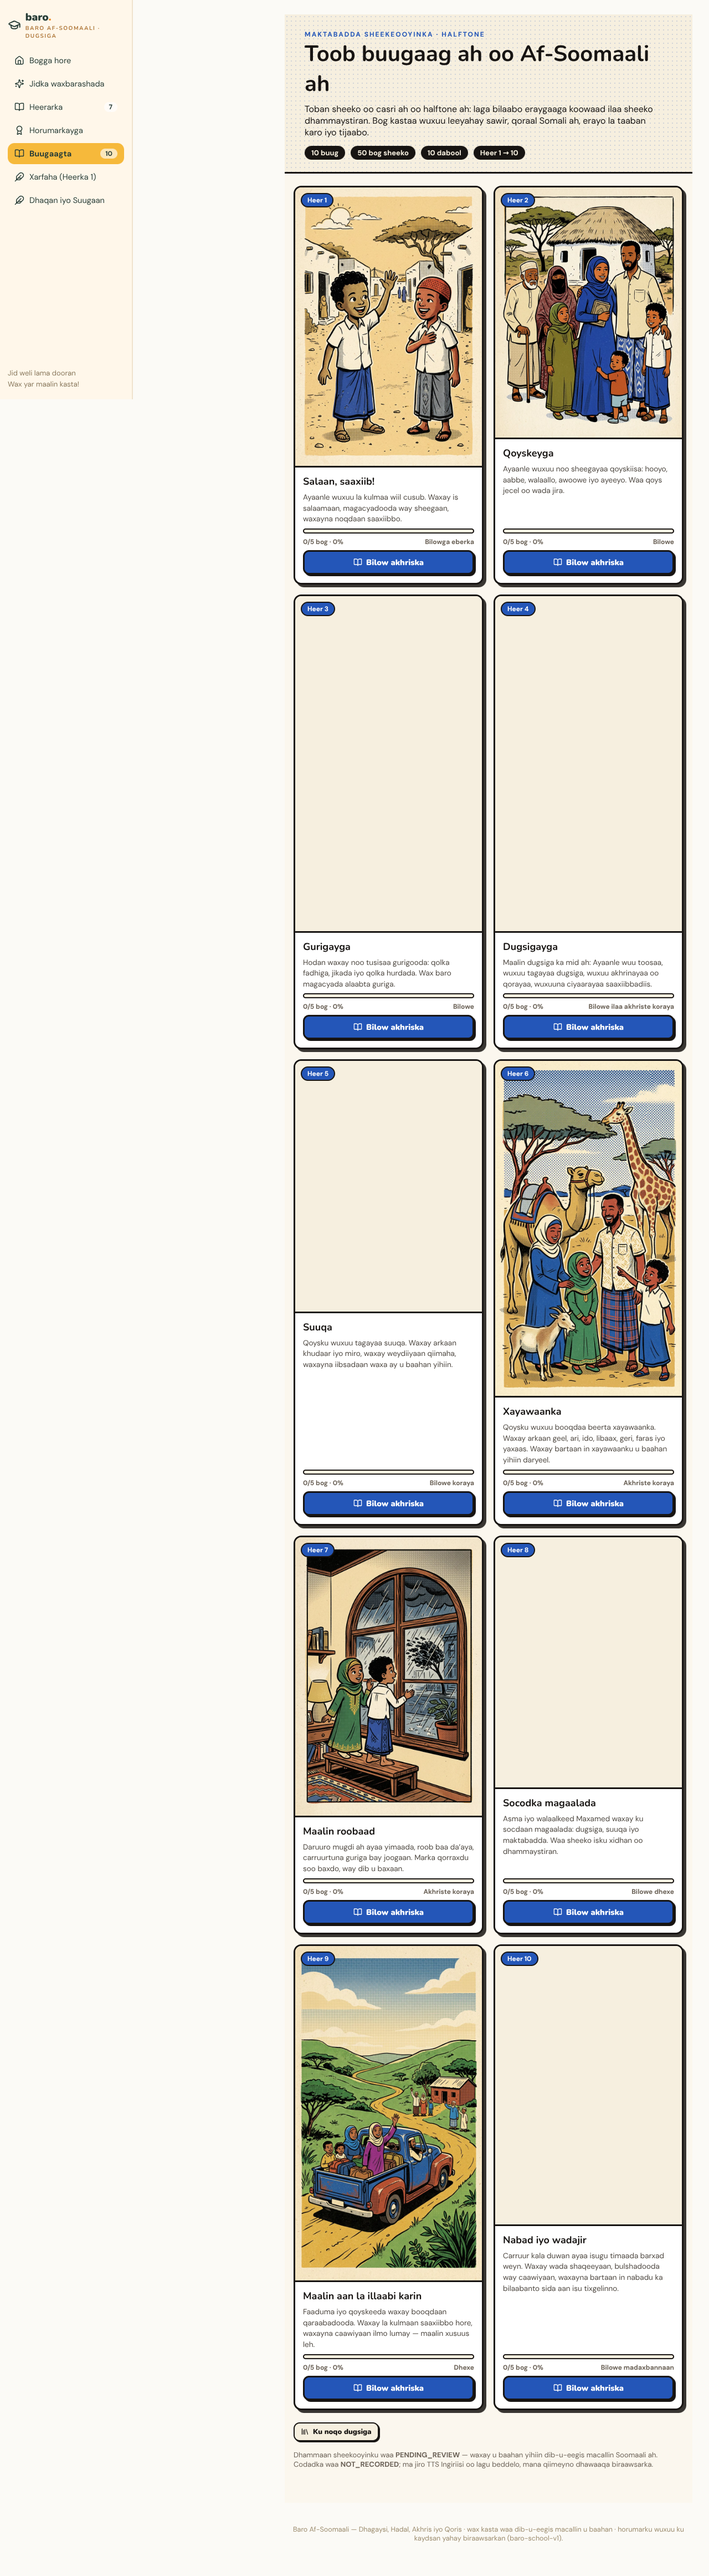
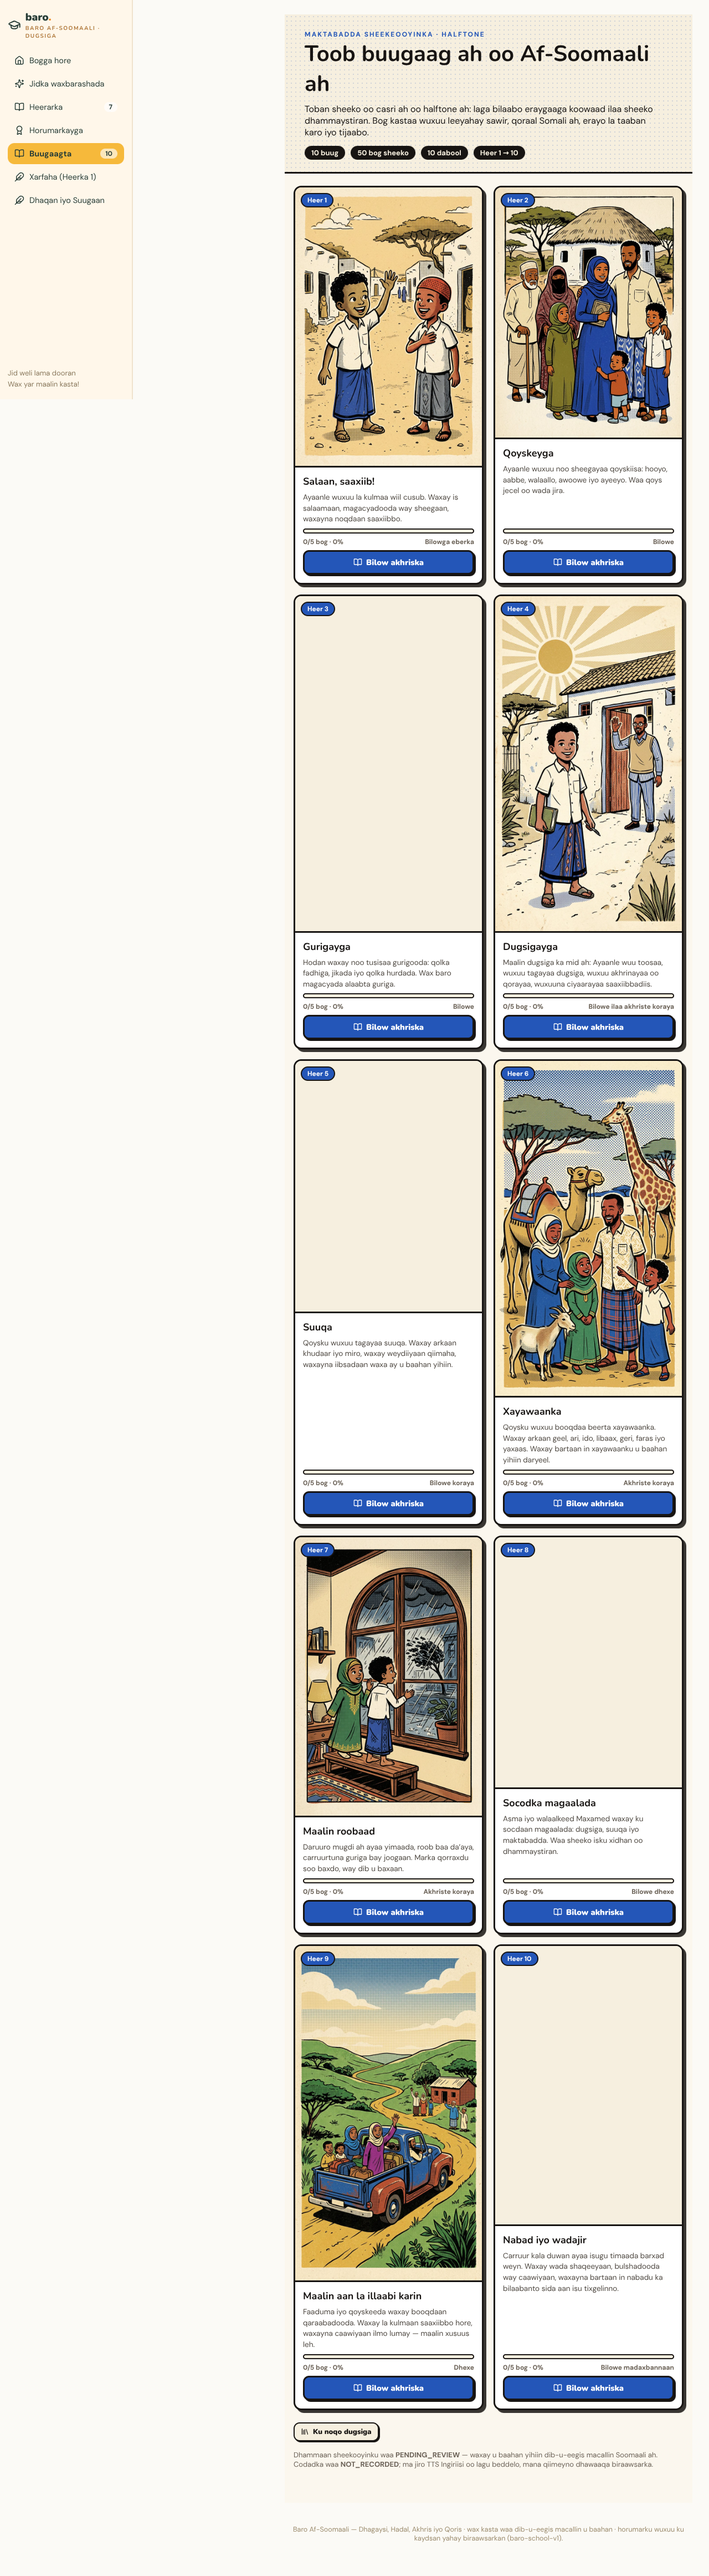
Parent-facing homepage with product story and pricing
- New landing at the site root (/): what baro. teaches (7 stages, 10 storybooks,
  phonics, poetry/culture, four-skill progress) aimed at parents — Somali
  primary with English support lines
- Pricing section: website access $5.99 and website + live lessons $25
- The ten halftone covers form the hero collage (eager-loaded, decode-guarded)
- School app moved to #/dugsi (its own links updated); legacy #/xaraf breadcrumb
  returns to the school; everything else unchanged
- New e2e/parents.spec.ts: prices and copy, CTA into the school, no-overflow at
  390/1280 with screenshots; school e2e entry URLs updated

Changed region(s): [[0.6875, 0.2185, 0.9688, 0.3746]]

diff --git a/src/main.tsx b/src/main.tsx
@@ -9,6 +9,7 @@ import Assessment from './Assessment';
 import {worldScenes} from './world';
 import CulturalSection from './modules/CulturalSection';
 import SchoolApp from './school/SchoolApp';
+import ParentsHome from './parents/ParentsHome';
 const StoryScene = lazy(() => import('./StoryScene'));
 import '@fontsource/dm-sans/latin-400.css';
 import '@fontsource/dm-sans/latin-700.css';
@@ -31,7 +32,7 @@ function App(){
  const attempt=(unit:number,id:string,skill:Skill,correct:boolean)=>setProgress(p=>recordAttempt(p,unit,id,skill,correct));
  const next=units.find(u=>!completed.includes(u.id))||units[0];
  return <div className="app-shell"><aside className={'sidebar '+(nav?'open':'')}><Logo/><div className="side-label">MEESHAADA WAXBARASHADA</div><nav aria-label="Bogagga"><button className={page==='home'?'active':''} onClick={()=>go('home')}><Home size={19}/> Bogga hore</button><button className={page==='units'||page==='unit'?'active':''} onClick={()=>go('units')}><BookOpen size={19}/> Casharrada <span className="nav-count">8</span></button><button className={page==='story'?'active':''} onClick={()=>go('story')}><Sparkles size={19}/> Aan sahaminno</button><button className={page==='culture'?'active':''} onClick={()=>go('culture')}><Feather size={19}/> Dhaqan iyo Suugaan</button></nav><div className="sidebar-bottom"><div className="side-illustration"><Emoji symbol="🌱"/></div><strong>Wax yar maalin kasta!</strong><p>Tallaabo kasta waxay kuu dhowaynaysaa akhriska.</p><span>WAAD KARTAA! <span>✦</span></span></div><div className="side-footer">Lagu sameeyay jacayl <span>♥</span></div></aside>
- <main><header className="topbar"><button className="mobile-menu" onClick={()=>setNav(!nav)} aria-label="Fur liiska"><Menu/></button><div className="breadcrumbs"><a href="#/" style={{color:'inherit',textDecoration:'none'}}>BARO AF-SOOMAALI</a><ChevronRight size={14}/><strong>{page==='home'?'Bogga hore':page==='story'?'Aan sahaminno':page==='culture'?'Dhaqan iyo Suugaan':page==='unit'?`Casharka ${unitId}`:'Casharrada'}</strong></div><div className="top-right"><div className="stage-pill"><span>✦</span> HEERKA 1</div><div className="avatar"><Emoji symbol="🌼"/></div><span className="learner">Ardayga <ChevronDown size={14}/></span></div></header>
+ <main><header className="topbar"><button className="mobile-menu" onClick={()=>setNav(!nav)} aria-label="Fur liiska"><Menu/></button><div className="breadcrumbs"><a href="#/dugsi" style={{color:'inherit',textDecoration:'none'}}>BARO AF-SOOMAALI</a><ChevronRight size={14}/><strong>{page==='home'?'Bogga hore':page==='story'?'Aan sahaminno':page==='culture'?'Dhaqan iyo Suugaan':page==='unit'?`Casharka ${unitId}`:'Casharrada'}</strong></div><div className="top-right"><div className="stage-pill"><span>✦</span> HEERKA 1</div><div className="avatar"><Emoji symbol="🌼"/></div><span className="learner">Ardayga <ChevronDown size={14}/></span></div></header>
  {page==='home'&&<div className="content"><div className="welcome-row"><div><div className="eyebrow"><span>✦</span> KU SOO DHAWOOW</div><h1>Salam, saaxiib! <span><Emoji symbol="👋🏽"/></span></h1><p>Maanta maxaan baranaynaa?</p></div><div className="date-chip"><span>✺</span> Maalin fiican oo waxbarasho ah!</div></div>
  <section className="hero"><div className="hero-copy"><div className="hero-kicker"><span>✦</span> AAN WADA BILOWNO</div><h2>Safarkaaga akhriska<br/><em>halkan ayuu ka bilaabmaa!</em></h2><p>Baro xarfaha iyo dhawaaqyada af-Soomaaliga adigoo ciyaaraya, sahaminaya oo madadaalanaya.</p><button className="primary" onClick={()=>openUnit(next.id)}>Aan bilowno <ArrowRight size={18}/></button></div><img src="/images/learning-landscape.png" alt="Ilmo buug akhrinaya oo geed hoostiisa jooga"/><div className="hero-dots">✦ &nbsp; ✧</div></section>
  <section className="progress-card"><div className="progress-icon"><Emoji symbol="🌟"/></div><div className="progress-text"><strong>Horumarkaaga</strong><p>Tallaabo tallaabo, waad gaadhaysaa!</p></div><div className="progress-bar-wrap"><div className="progress-meta"><span>HEERKA 1</span><strong>{completed.length} <small>/ 8 cashar</small></strong></div><div className="progress-track"><div style={{width:`${completed.length/8*100}%`}}/></div></div><div className="progress-star">✦</div></section>
@@ -67,6 +68,6 @@ function StoryPage({onBack}:{onBack:()=>void}){
  return <div className="content inner-page"><button className="back" onClick={onBack}><ArrowLeft size={17}/> Bogga hore</button><div className="eyebrow">✦ AAN SAHAMINNO</div><h1>Maxaa halkan jooga?</h1><p className="page-intro">Taabo sawir ama isticmaal badhamada si aad eray u ogaato.</p><div className="case-buttons world-tabs">{worldScenes.map(s=><button key={s.id} className={sceneId===s.id?'selected':''} onClick={()=>{setSceneId(s.id);setFound(null)}}>{s.title}</button>)}</div><div className="activity-card story-card"><h2>{scene.title}</h2><p>{scene.description}</p><Suspense fallback={<div className="scene">Soo raraya...</div>}><StoryScene sceneId={sceneId} onDiscover={discover}/></Suspense><div className="world-buttons">{scene.objects.map(g=>{const l=byG(g);return <button className="outline" key={g} onClick={()=>discover(g)}><Emoji symbol={l.emoji}/> {g==='n'?'Taabo nalka':l.word}</button>})}</div>{letter&&<div className="story-answer"><div className="sound-tiles">{tiles.map((t,i)=><SoundTile key={i} sound={t} active={i===highlight} label={t.toUpperCase()}/>)}</div><h2>{letter.word[0].toUpperCase()+letter.word.slice(1)}</h2><p>{letter.meaning}</p><AudioButton path={letter.wordAudio} label="Dhagayso erayga"/></div>}</div><p className="notice"><CircleHelp size={16}/> Codadka aan la ansixin lama ciyaarayo. Duubis iyo dib-u-eegis ayaa loo baahan yahay.</p></div>
 }
 
-function Root(){const [hash,setHash]=useState(()=>window.location.hash);useEffect(()=>{const f=()=>setHash(window.location.hash);window.addEventListener('hashchange',f);return()=>window.removeEventListener('hashchange',f)},[]);if(hash.startsWith('#/xaraf'))return <App/>;return <SchoolApp/>;}
+function Root(){const [hash,setHash]=useState(()=>window.location.hash);useEffect(()=>{const f=()=>setHash(window.location.hash);window.addEventListener('hashchange',f);return()=>window.removeEventListener('hashchange',f)},[]);if(hash.startsWith('#/xaraf'))return <App/>;if(hash===''||hash==='#'||hash==='#/')return <ParentsHome/>;return <SchoolApp/>;}
 const root = document.getElementById('root');
 if(root) createRoot(root).render(<React.StrictMode><Root/></React.StrictMode>);

diff --git a/src/parents/ParentsHome.tsx b/src/parents/ParentsHome.tsx
@@ -1,0 +1,126 @@
+import { ArrowRight, BookOpen, Check, GraduationCap, PenLine, Sparkles, TrendingUp } from 'lucide-react';
+import { books as libraryBooks } from '../books/index';
+import { schoolTotals } from '../curriculum/index';
+import './parents.css';
+
+const scrollTo = (id: string) => document.getElementById(id)?.scrollIntoView({ behavior: 'smooth', block: 'start' });
+
+/**
+ * Parent-facing homepage: what baro. is and what it costs.
+ * All product claims describe features that exist in the app;
+ * pricing figures come from the business offer (website access $5.99,
+ * website + live lessons $25).
+ */
+export function ParentsHome() {
+  const totals = schoolTotals();
+  return (
+    <div className="ph-page">
+      <header className="ph-header">
+        <a className="ph-brand" href="#/">
+          <GraduationCap size={26} />
+          <span>baro<span className="ph-dot">.</span><small>BARO AF-SOOMAALI · DUGSIGA</small></span>
+        </a>
+        <nav className="ph-nav" aria-label="Bogagga waalidiinta">
+          <button onClick={() => scrollTo('faahfaahin')}>Maxay tahay?</button>
+          <button onClick={() => scrollTo('qiimaha')}>Qiimaha</button>
+        </nav>
+        <a className="ph-btn small" href="#/dugsi">Gal dugsi <ArrowRight size={15} /></a>
+      </header>
+
+      <section className="ph-hero">
+        <div className="ph-hero-copy">
+          <p className="ph-eyebrow">GOORTA WAALIDIINTA · FOR PARENTS</p>
+          <h1>Af-Soomaali u carruurtaada — <em>si farxad leh.</em></h1>
+          <p className="ph-sub" lang="en">Somali literacy for your children — reading, speaking, listening and writing.</p>
+          <p className="ph-lead">
+            baro. waa websaydh waxbarasho oo carruurtu si tartiib ah ku barto xarfaha, akhriska,
+            sheekooyinka iyo suugaanta — {totals.stages} heer oo isku xidhan, laga bilaabo dhagaysiga
+            ilaa suugaanta.
+          </p>
+          <div className="ph-actions">
+            <a className="ph-btn primary" href="#/dugsi">Gal dugsi <ArrowRight size={17} /></a>
+            <button className="ph-btn ghost" onClick={() => scrollTo('qiimaha')}>Arag qiimaha</button>
+          </div>
+        </div>
+        <div className="ph-covers" aria-label="Sheekooyinka maktabadda">
+          {libraryBooks.map(b => (
+            <figure key={b.id} className="ph-cover">
+              <img src={b.cover} alt={b.coverAltSo} decoding="async" />
+              <figcaption>{b.titleSo}</figcaption>
+            </figure>
+          ))}
+        </div>
+      </section>
+
+      <section className="ph-section" id="faahfaahin">
+        <p className="ph-eyebrow center">MAXAY TAHAY? · WHAT IS IT</p>
+        <h2>Waxa carruurtu ka helayaan</h2>
+        <p className="ph-sub center" lang="en">What your children get inside.</p>
+        <div className="ph-features">
+          <div className="ph-feature">
+            <Sparkles size={22} />
+            <h3>{totals.stages} heer oo isku xidhan</h3>
+            <p>Laga bilaabo dhagaysiga iyo hadalka ilaa akhriska iyo suugaanta.</p>
+            <p className="ph-sub" lang="en">Seven connected stages, from listening to literature.</p>
+          </div>
+          <div className="ph-feature">
+            <BookOpen size={22} />
+            <h3>{libraryBooks.length} sheeko-buug</h3>
+            <p>Sheekooyin halftone ah; eray kasta waa la riixi karaa, micnihiisana waa la arkaa.</p>
+            <p className="ph-sub" lang="en">Ten illustrated storybooks with tappable word help.</p>
+          </div>
+          <div className="ph-feature">
+            <PenLine size={22} />
+            <h3>Xarfaha, suugaanta iyo dhaqanka</h3>
+            <p>26 xaraf, casharro suugaan, iyo qoris — Af-Soomaali dhab ah.</p>
+            <p className="ph-sub" lang="en">Phonics, poetry and culture.</p>
+          </div>
+          <div className="ph-feature">
+            <TrendingUp size={22} />
+            <h3>Horumarka la raaco</h3>
+            <p>Afar xirfad: dhagaysi, hadal, akhris iyo qoris — meel kasta waad ka aragtaa.</p>
+            <p className="ph-sub" lang="en">Progress across the four skills.</p>
+          </div>
+        </div>
+      </section>
+
+      <section className="ph-section ph-pricing-section" id="qiimaha">
+        <p className="ph-eyebrow center">QIIMAHA · PRICING</p>
+        <h2>Dooro qorshaha qoyskaaga</h2>
+        <p className="ph-sub center" lang="en">Choose the plan that fits your family.</p>
+        <div className="ph-plans">
+          <div className="ph-plan">
+            <h3>Galitaanka websaydhka</h3>
+            <p className="ph-plan-en" lang="en">Website access</p>
+            <p className="ph-price">$5.99</p>
+            <ul>
+              <li><Check size={16} /> Dhammaan casharrada iyo jimicsiyada</li>
+              <li><Check size={16} /> {libraryBooks.length} sheeko-buug oo dhan</li>
+              <li><Check size={16} /> Xarfaha iyo dhaqanka</li>
+              <li><Check size={16} /> Dashboard horumar leh</li>
+            </ul>
+            <a className="ph-btn primary" href="#/dugsi">Gal dugsi <ArrowRight size={16} /></a>
+          </div>
+          <div className="ph-plan featured">
+            <p className="ph-badge">Casharro toos ah · Live lessons</p>
+            <h3>Websaydh + casharro toos ah</h3>
+            <p className="ph-plan-en" lang="en">Website + live lessons</p>
+            <p className="ph-price">$25</p>
+            <ul>
+              <li><Check size={16} /> Wax kasta oo galitaanka websaydhka ku jira</li>
+              <li><Check size={16} /> Casharro toos ah oo macallin Soomaali ah</li>
+            </ul>
+            <a className="ph-btn dark" href="#/dugsi">Gal dugsi <ArrowRight size={16} /></a>
+          </div>
+        </div>
+      </section>
+
+      <footer className="ph-footer">
+        <p><strong>baro.</strong> BARO AF-SOOMAALI · DUGSIGA</p>
+        <p className="ph-note">Wax kasta waa dib-u-eegis macallin Soomaali ah u baahan.</p>
+      </footer>
+    </div>
+  );
+}
+
+export default ParentsHome;

diff --git a/src/parents/parents.css b/src/parents/parents.css
@@ -1,0 +1,79 @@
+/* Parent-facing homepage — baro. school identity (cream/amber/dark green). */
+
+.ph-page { min-height: 100vh; background: #fff7ea; color: #283d37; font-family: 'DM Sans', sans-serif; }
+.ph-page h1, .ph-page h2, .ph-page h3 { font-family: 'Nunito', sans-serif; }
+
+/* Header */
+.ph-header { position: sticky; top: 0; z-index: 30; display: flex; align-items: center; gap: 14px; flex-wrap: wrap; padding: 12px max(16px, 4vw); background: rgba(255, 247, 234, 0.94); border-bottom: 2px solid #f0e3cd; }
+.ph-brand { display: flex; align-items: center; gap: 8px; font-family: 'Nunito', sans-serif; font-weight: 900; font-size: 19px; color: #283d37; text-decoration: none; }
+.ph-brand small { display: block; font-size: 10px; letter-spacing: 1.5px; color: #b0793c; font-weight: 700; }
+.ph-dot { color: #f28c28; }
+.ph-nav { display: flex; gap: 4px; margin-left: auto; }
+.ph-nav button { border: 0; background: transparent; padding: 9px 12px; border-radius: 11px; font: inherit; font-weight: 700; font-size: 14px; color: #283d37; cursor: pointer; }
+.ph-nav button:hover { background: #f7ecd9; }
+
+/* Buttons */
+.ph-btn { display: inline-flex; align-items: center; justify-content: center; gap: 7px; border: 2.5px solid #1c1917; border-radius: 13px; padding: 11px 18px; font-family: 'Nunito', sans-serif; font-weight: 800; font-size: 15px; color: #283d37; background: #f6b93b; text-decoration: none; cursor: pointer; box-shadow: 3px 3px 0 rgba(28, 25, 23, 0.85); }
+.ph-btn:hover { transform: translateY(-1px); }
+.ph-btn:active { transform: translate(2px, 2px); box-shadow: 1px 1px 0 rgba(28, 25, 23, 0.85); }
+.ph-btn.primary { background: #f6b93b; }
+.ph-btn.dark { background: #283d37; color: #fff7ea; }
+.ph-btn.ghost { background: #fff; }
+.ph-btn.small { padding: 8px 13px; font-size: 13.5px; }
+
+/* Hero */
+.ph-hero { display: grid; grid-template-columns: 1.1fr 1fr; gap: 28px; align-items: center; max-width: 1160px; margin: 0 auto; padding: clamp(26px, 6vh, 64px) max(16px, 4vw) 20px; }
+.ph-eyebrow { font-size: 11.5px; letter-spacing: 2px; font-weight: 800; color: #b0793c; margin: 0 0 10px; }
+.ph-eyebrow.center { text-align: center; }
+.ph-hero h1 { font-size: clamp(30px, 5vw, 52px); line-height: 1.12; margin: 0 0 12px; }
+.ph-hero h1 em { font-style: normal; color: #f28c28; }
+.ph-lead { font-size: clamp(16px, 1.6vw, 19px); line-height: 1.65; margin: 12px 0 20px; max-width: 54ch; }
+.ph-sub { color: #6b6257; font-size: 14.5px; line-height: 1.55; margin: 4px 0; }
+.ph-actions { display: flex; gap: 12px; flex-wrap: wrap; }
+
+/* Covers collage */
+.ph-covers { display: grid; grid-template-columns: repeat(auto-fill, minmax(min(108px, 100%), 1fr)); gap: 12px; }
+.ph-cover { margin: 0; border: 2.5px solid #1c1917; border-radius: 12px; overflow: hidden; background: #fdf9f1; box-shadow: 4px 5px 0 rgba(28, 25, 23, 0.25); }
+.ph-cover img { display: block; width: 100%; aspect-ratio: 3 / 4; object-fit: cover; }
+.ph-cover figcaption { font-size: 10.5px; font-weight: 700; padding: 5px 6px 6px; line-height: 1.2; }
+
+/* Sections */
+.ph-section { max-width: 1160px; margin: 0 auto; padding: clamp(28px, 5vh, 52px) max(16px, 4vw); }
+.ph-section h2 { font-size: clamp(24px, 3vw, 36px); text-align: center; margin: 0 0 6px; }
+.ph-section > .ph-sub { text-align: center; margin-bottom: 22px; }
+
+/* Features */
+.ph-features { display: grid; grid-template-columns: repeat(auto-fit, minmax(min(250px, 100%), 1fr)); gap: 16px; }
+.ph-feature { background: #fff; border: 2px solid #1c1917; border-radius: 16px; padding: 20px 20px 16px; box-shadow: 4px 5px 0 rgba(28, 25, 23, 0.18); }
+.ph-feature svg { color: #f28c28; }
+.ph-feature h3 { font-size: 18.5px; margin: 10px 0 6px; }
+.ph-feature p { font-size: 14.5px; line-height: 1.55; margin: 0 0 4px; }
+
+/* Pricing */
+.ph-pricing-section { padding-top: clamp(10px, 2vh, 24px); }
+.ph-plans { display: grid; grid-template-columns: repeat(auto-fit, minmax(min(300px, 100%), 1fr)); gap: 18px; max-width: 860px; margin: 0 auto; }
+.ph-plan { display: flex; flex-direction: column; background: #fff; border: 2.5px solid #1c1917; border-radius: 18px; padding: 24px 24px 22px; box-shadow: 5px 6px 0 rgba(28, 25, 23, 0.2); }
+.ph-plan.featured { background: #f6b93b; box-shadow: 6px 7px 0 rgba(28, 25, 23, 0.85); }
+.ph-badge { align-self: flex-start; margin: 0 0 10px; background: #283d37; color: #fff7ea; border-radius: 999px; padding: 4px 12px; font-size: 11.5px; font-weight: 800; letter-spacing: 0.6px; }
+.ph-plan h3 { font-size: 21px; margin: 0 0 2px; }
+.ph-plan-en { color: #6b6257; font-size: 13.5px; margin: 0 0 12px; }
+.ph-plan.featured .ph-plan-en { color: #5c4a1e; }
+.ph-price { font-family: 'Nunito', sans-serif; font-size: 46px; font-weight: 900; margin: 0 0 14px; line-height: 1; }
+.ph-plan ul { list-style: none; margin: 0 0 20px; padding: 0; display: grid; gap: 9px; }
+.ph-plan li { display: flex; align-items: flex-start; gap: 8px; font-size: 14.5px; line-height: 1.45; }
+.ph-plan li svg { flex-shrink: 0; margin-top: 2px; }
+.ph-plan .ph-btn { margin-top: auto; }
+
+/* Footer */
+.ph-footer { text-align: center; padding: 26px 16px 34px; border-top: 2px solid #f0e3cd; }
+.ph-footer p { margin: 4px 0; font-size: 14px; letter-spacing: 1px; }
+.ph-note { color: #6b6257; font-size: 12.5px !important; letter-spacing: 0 !important; }
+
+@media (max-width: 860px) {
+  .ph-hero { grid-template-columns: 1fr; }
+  .ph-covers { grid-template-columns: repeat(auto-fill, minmax(min(96px, 100%), 1fr)); }
+}
+@media (max-width: 560px) {
+  .ph-nav { order: 3; width: 100%; margin-left: 0; }
+  .ph-header .ph-btn.small { margin-left: auto; }
+}

diff --git a/e2e/parents.spec.ts b/e2e/parents.spec.ts
@@ -1,0 +1,38 @@
+import { test, expect } from '@playwright/test';
+
+test.beforeEach(async ({ page }) => {
+  await page.goto('/');
+  await page.evaluate(() => localStorage.clear());
+  await page.reload();
+  await page.waitForLoadState('networkidle');
+});
+
+test('parents homepage explains the product and shows both prices', async ({ page }) => {
+  await expect(page.getByRole('heading', { level: 1 })).toContainText('Af-Soomaali');
+  await expect(page.getByText('GOORTA WAALIDIINTA')).toBeVisible();
+  await expect(page.getByText('Website access', { exact: true })).toBeVisible();
+  await expect(page.getByText('Website + live lessons', { exact: true })).toBeVisible();
+  await expect(page.getByText('$5.99')).toBeVisible();
+  await expect(page.getByText('$25')).toBeVisible();
+  await expect(page.getByText('Casharro toos ah oo macallin Soomaali ah')).toBeVisible();
+  await expect(page.locator('.ph-cover img')).toHaveCount(10);
+  const broken = await page.locator('.ph-cover img').evaluateAll(imgs => imgs.filter(i => (i as HTMLImageElement).naturalWidth === 0).length);
+  expect(broken, 'every book cover must load').toBe(0);
+});
+
+test('the call to action enters the school', async ({ page }) => {
+  await page.getByRole('link', { name: /Gal dugsi/ }).first().click();
+  await expect(page.getByText('KU SOO DHAWOOW · DUGSIGA AF-SOOMAALIGA')).toBeVisible();
+  await expect(page.getByRole('heading', { name: 'Baro Af-Soomaali', exact: true })).toBeVisible();
+});
+
+test('parents page fits phone and desktop with no horizontal overflow', async ({ page }) => {
+  for (const size of [{ width: 390, height: 844 }, { width: 1280, height: 800 }] as const) {
+    await page.setViewportSize(size);
+    await page.goto('/');
+    await page.waitForLoadState('networkidle');
+    await page.evaluate(() => Promise.all(Array.from(document.images).map(i => i.decode().catch(() => undefined))));
+    expect(await page.evaluate(() => document.documentElement.scrollWidth <= window.innerWidth), `no overflow at ${size.width}`).toBe(true);
+    await page.screenshot({ path: `screenshots/parents-home-${size.width}.png`, fullPage: true });
+  }
+});

diff --git a/e2e/school.spec.ts b/e2e/school.spec.ts
@@ -1,7 +1,7 @@
 import { test, expect } from '@playwright/test';
 
 test.beforeEach(async ({ page }) => {
-  await page.goto('/');
+  await page.goto('/#/dugsi');
   await page.evaluate(() => localStorage.clear());
   await page.reload();
 });
@@ -101,7 +101,7 @@ test('school progress survives refresh and does not touch phonics progress', asy
 test('school layout fits desktop, tablet and mobile with no overflow', async ({ page }) => {
   for (const size of [{ width: 1440, height: 1000 }, { width: 768, height: 1024 }, { width: 390, height: 844 }, { width: 320, height: 700 }]) {
     await page.setViewportSize(size);
-    await page.goto('/');
+    await page.goto('/#/dugsi');
     expect(await page.evaluate(() => document.documentElement.scrollWidth <= innerWidth), `home at ${size.width}`).toBe(true);
     await page.getByRole('button', { name: /Heerka 2 — Erayo iyo Weedho/ }).click();
     expect(await page.evaluate(() => document.documentElement.scrollWidth <= innerWidth), `stage at ${size.width}`).toBe(true);

diff --git a/src/school/SchoolApp.tsx b/src/school/SchoolApp.tsx
@@ -71,7 +71,7 @@ export function SchoolApp() {
   }, []);
 
   const navigate = useCallback((r: Route) => {
-    const hash = r.name === 'home' ? '#/' : r.name === 'stage' ? `#/stage/${r.stageId}` : r.name === 'lesson' ? `#/lesson/${r.lessonId}` : r.name === 'book' ? `#/book/${r.bookId}` : r.name === 'dashboard' ? '#/dashboard' : `#/${r.name}`;
+    const hash = r.name === 'home' ? '#/dugsi' : r.name === 'stage' ? `#/stage/${r.stageId}` : r.name === 'lesson' ? `#/lesson/${r.lessonId}` : r.name === 'book' ? `#/book/${r.bookId}` : r.name === 'dashboard' ? '#/dashboard' : `#/${r.name}`;
     if (window.location.hash !== hash) window.location.hash = hash;
     else setRoute(r);
     setNavOpen(false);
